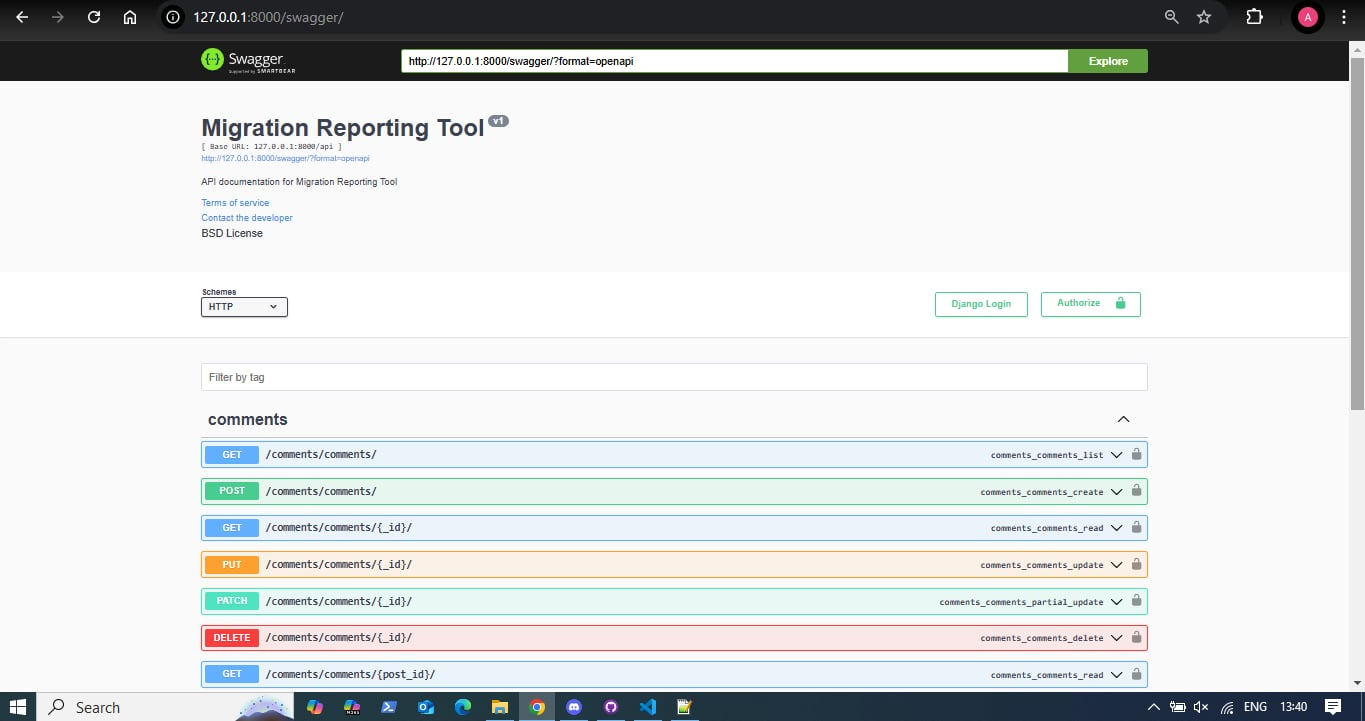
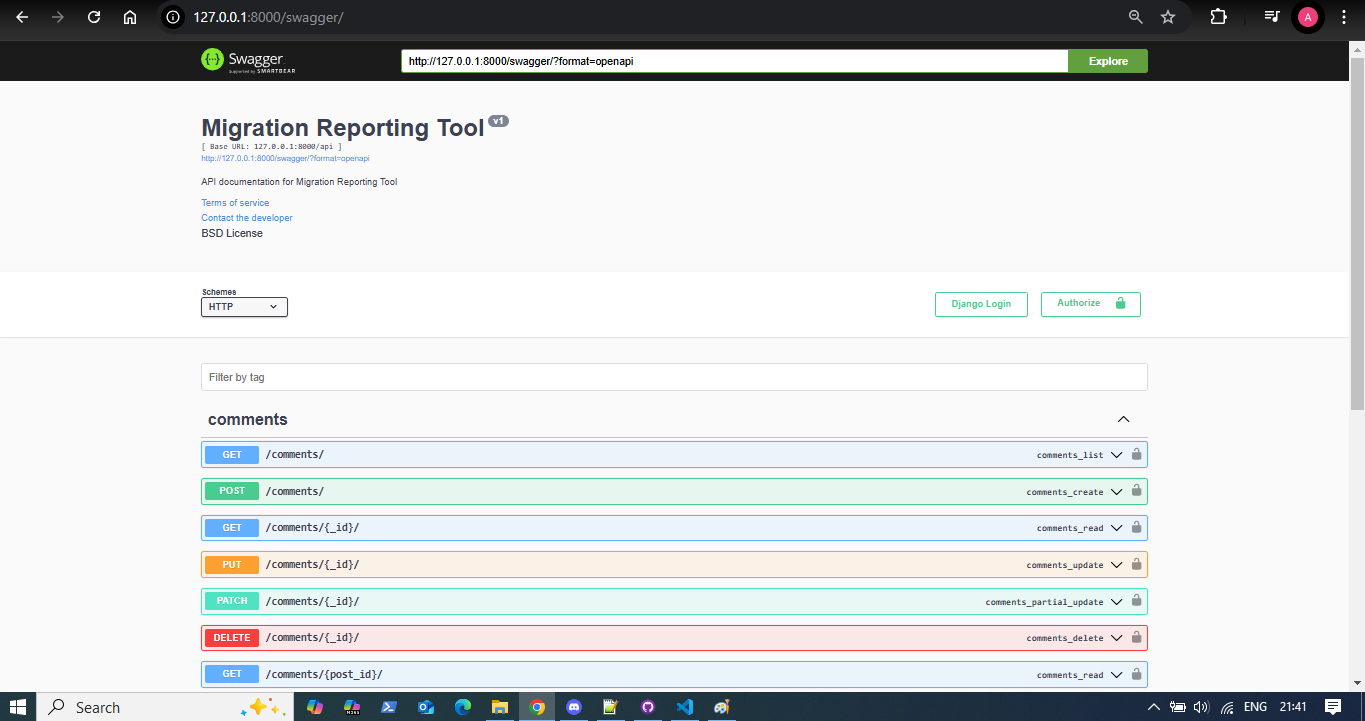
update API Architecture

diff --git a/docs/Technical report + user guide/report.html b/docs/Technical report + user guide/report.html
@@ -34,22 +34,43 @@
             <h2>Internal Data Structures</h2>
             <p>MiRT manages multiple data structures to handle migration events, user interactions, and metadata. The core models include:</p>
             <ul>
-                <li><strong>MigrationEvent:</strong> Captures details like species/type, GPS coordinates, timestamp, and source (direct input or social media).</li>
-                <li><strong>UserPreferences:</strong> Stores user settings such as marker customization, filters, and export preferences.</li>
-                <li><strong>StatisticalData:</strong> Aggregates data for generating migration statistics and trends.</li>
+                <li><strong>Example1:</strong> Captures details like species/type, GPS coordinates, timestamp, and source (direct input or social media).</li>
+                <li><strong>Example2:</strong> Stores user settings such as marker customization, filters, and export preferences.</li>
+                <li><strong>TopicModeling:</strong> Aggregates data for generating statistics regarding comments on a given migration topic.</li>
             </ul>
         </section>
 
-        <section id="api-architecture">
-            <h2>API Architecture</h2>
-            <p>MiRT employs RESTful APIs to manage data interactions:</p>
-            <ul>
-                <li><strong>GET /migrations:</strong> Retrieves migration events with optional filters for entity type, date range, and location.</li>
-                <li><strong>POST /report:</strong> Allows users to report new migration events with metadata.</li>
-                <li><strong>GET /statistics:</strong> Provides statistical summaries using aggregated data.</li>
-                <li><strong>GraphQL Endpoint:</strong> Offers flexible querying capabilities for advanced data analytics.</li>
-            </ul>
-        </section>
+		<section id="api-architecture">
+			<h2>API Architecture</h2>
+			<p>MiRT employs RESTful APIs to manage data interactions for comments and posts, allowing for CRUD operations on both entities.</p>
+
+			<!-- Comments API Section -->
+			<h3>Comments API</h3>
+			<ul>
+				<li><strong>GET /comments/</strong> - Retrieves a list of all comments. (Endpoint: <code>comments_list</code>)</li>
+				<li><strong>POST /comments/</strong> - Creates a new comment. (Endpoint: <code>comments_create</code>)</li>
+				<li><strong>GET /comments/{_id}/</strong> - Retrieves a specific comment by ID. (Endpoint: <code>comments_read</code>)</li>
+				<li><strong>PUT /comments/{_id}/</strong> - Updates an existing comment entirely. (Endpoint: <code>comments_update</code>)</li>
+				<li><strong>PATCH /comments/{_id}/</strong> - Partially updates specific fields of a comment. (Endpoint: <code>comments_partial_update</code>)</li>
+				<li><strong>DELETE /comments/{_id}/</strong> - Deletes a comment by ID. (Endpoint: <code>comments_delete</code>)</li>
+				<li><strong>GET /comments/{post_id}/</strong> - Retrieves comments related to a specific post. (Endpoint: <code>comments_read</code>)</li>
+				<li><strong>POST /comments/{post_id}/</strong> - Creates a comment for a specific post. (Endpoint: <code>comments_create</code>)</li>
+			</ul>
+
+			<!-- Posts API Section -->
+			<h3>Posts API</h3>
+			<ul>
+				<li><strong>GET /posts/</strong> - Retrieves a list of all posts. (Endpoint: <code>posts_list</code>)</li>
+				<li><strong>POST /posts/</strong> - Creates a new post. (Endpoint: <code>posts_create</code>)</li>
+				<li><strong>GET /posts/{_id}/</strong> - Retrieves a specific post by ID. (Endpoint: <code>posts_read</code>)</li>
+				<li><strong>PUT /posts/{_id}/</strong> - Updates an existing post entirely. (Endpoint: <code>posts_update</code>)</li>
+				<li><strong>PATCH /posts/{_id}/</strong> - Partially updates specific fields of a post. (Endpoint: <code>posts_partial_update</code>)</li>
+				<li><strong>DELETE /posts/{_id}/</strong> - Deletes a post by ID. (Endpoint: <code>posts_delete</code>)</li>
+			</ul>
+
+			<p>All API endpoints return data in JSON format. For operations that modify resources (POST, PUT, PATCH), ensure the request body follows the expected schema, including required fields such as <code>title</code>, <code>content</code>, or <code>text</code> where applicable.</p>
+		</section>
+
 
         <section id="rdf-models">
             <h2>RDF-Based Knowledge Models</h2>

diff --git a/data-collector-api/DataCollectorApi/DataCollectorApi/urls.py b/data-collector-api/DataCollectorApi/DataCollectorApi/urls.py
@@ -34,8 +34,8 @@ schema_view = get_schema_view(
 )
 urlpatterns = [
     path('admin/', admin.site.urls),
-    path('api/comments/', include('comments.urls')),
-    path('api/posts/', include('posts.urls')),
+    path('api/', include('comments.urls')),
+    path('api/', include('posts.urls')),
     path("api/v1/", include("api.urls")),
     path('swagger/', schema_view.with_ui('swagger', cache_timeout=0), name='schema-swagger-ui'),
 ]
